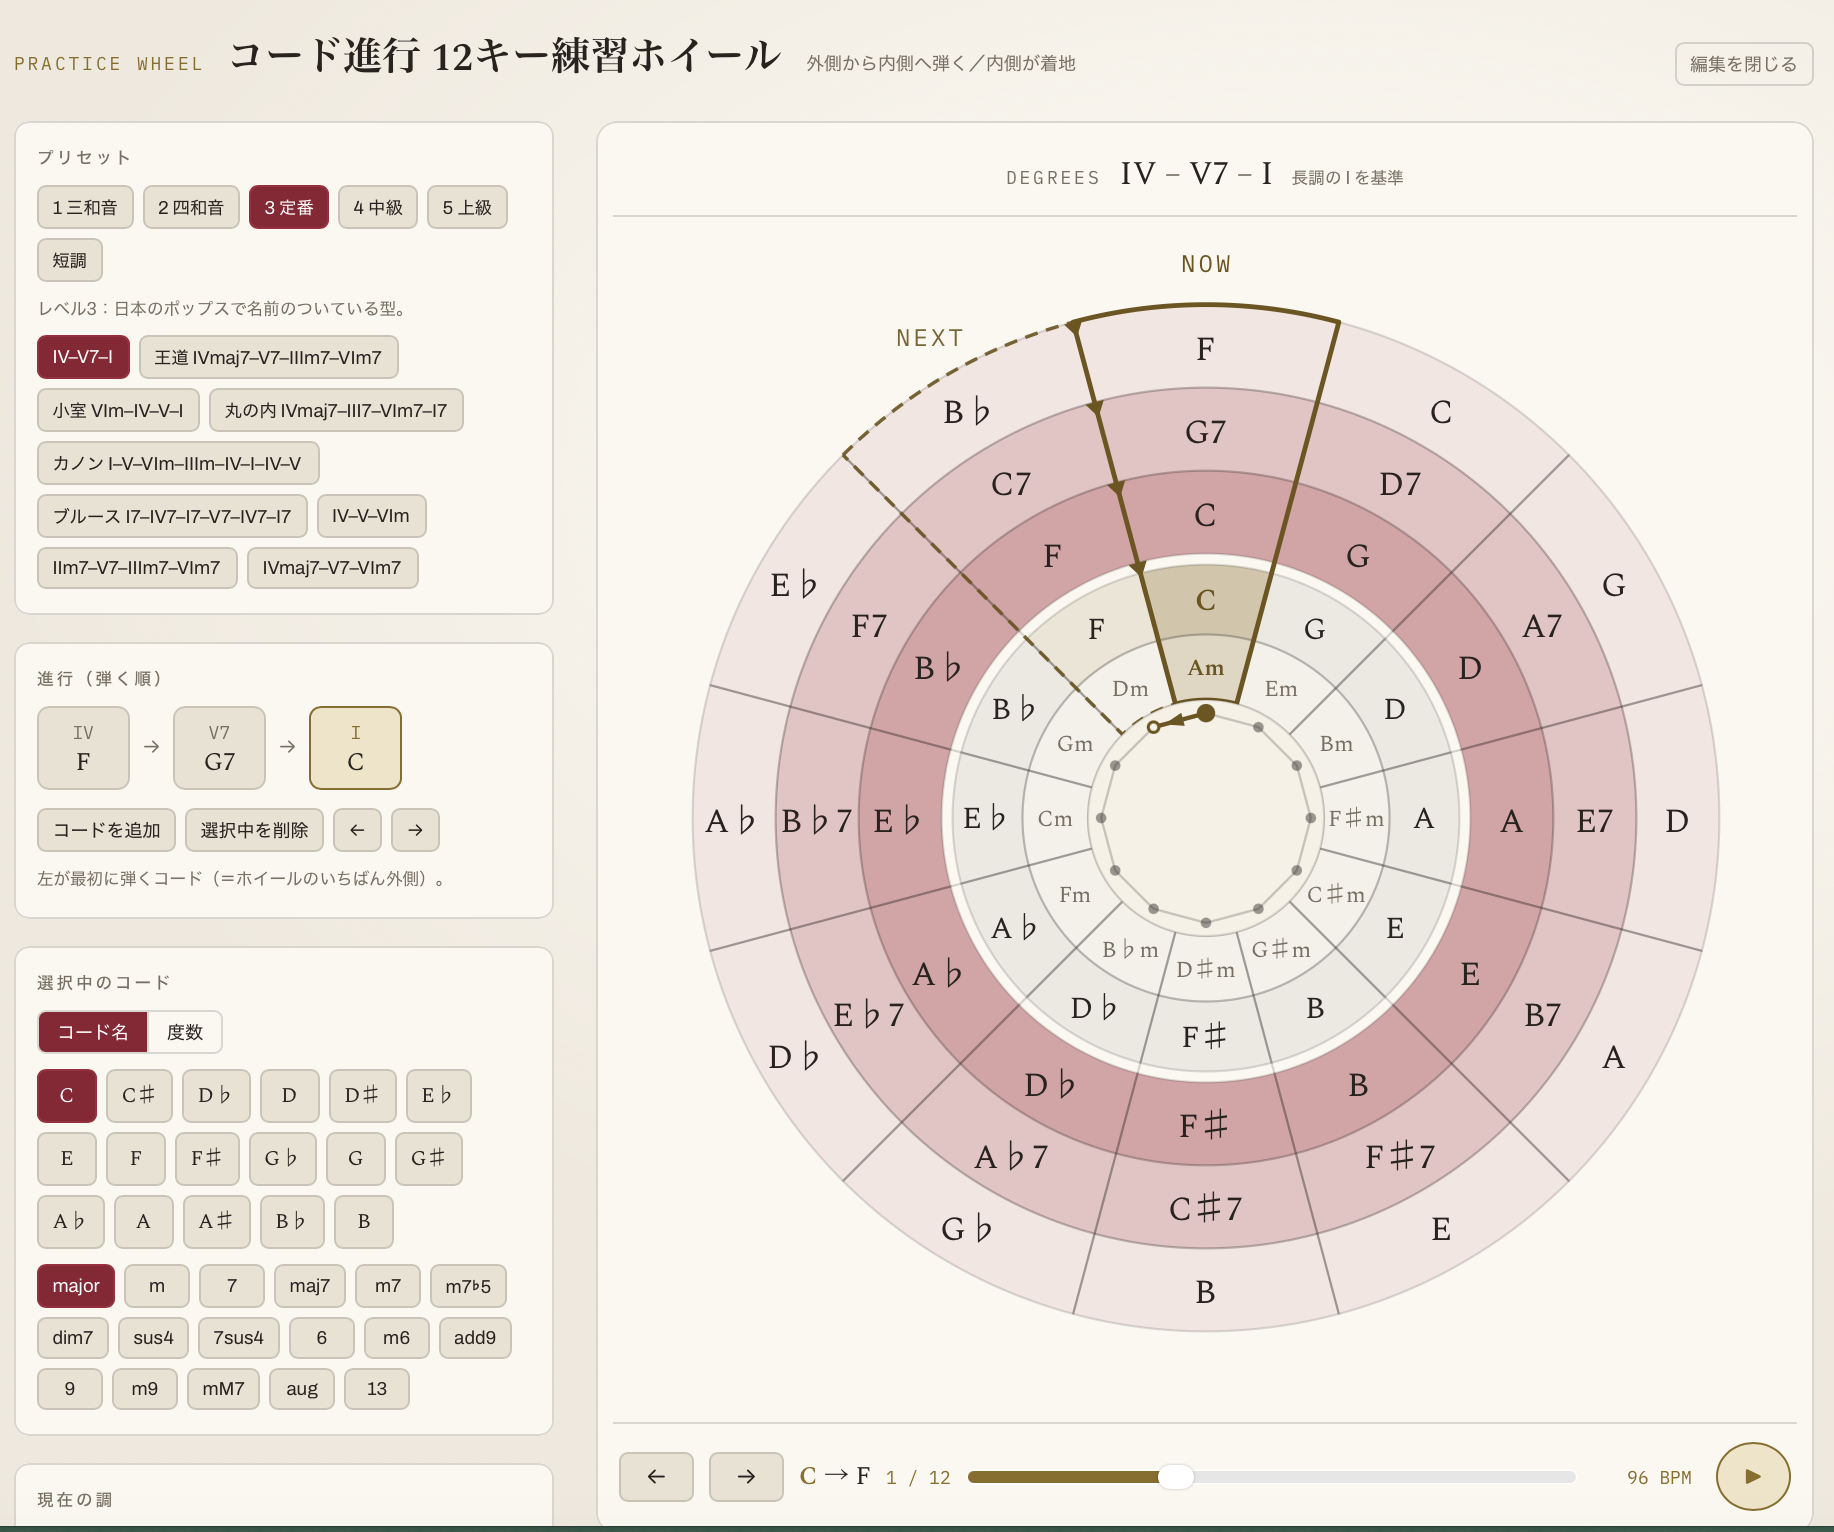
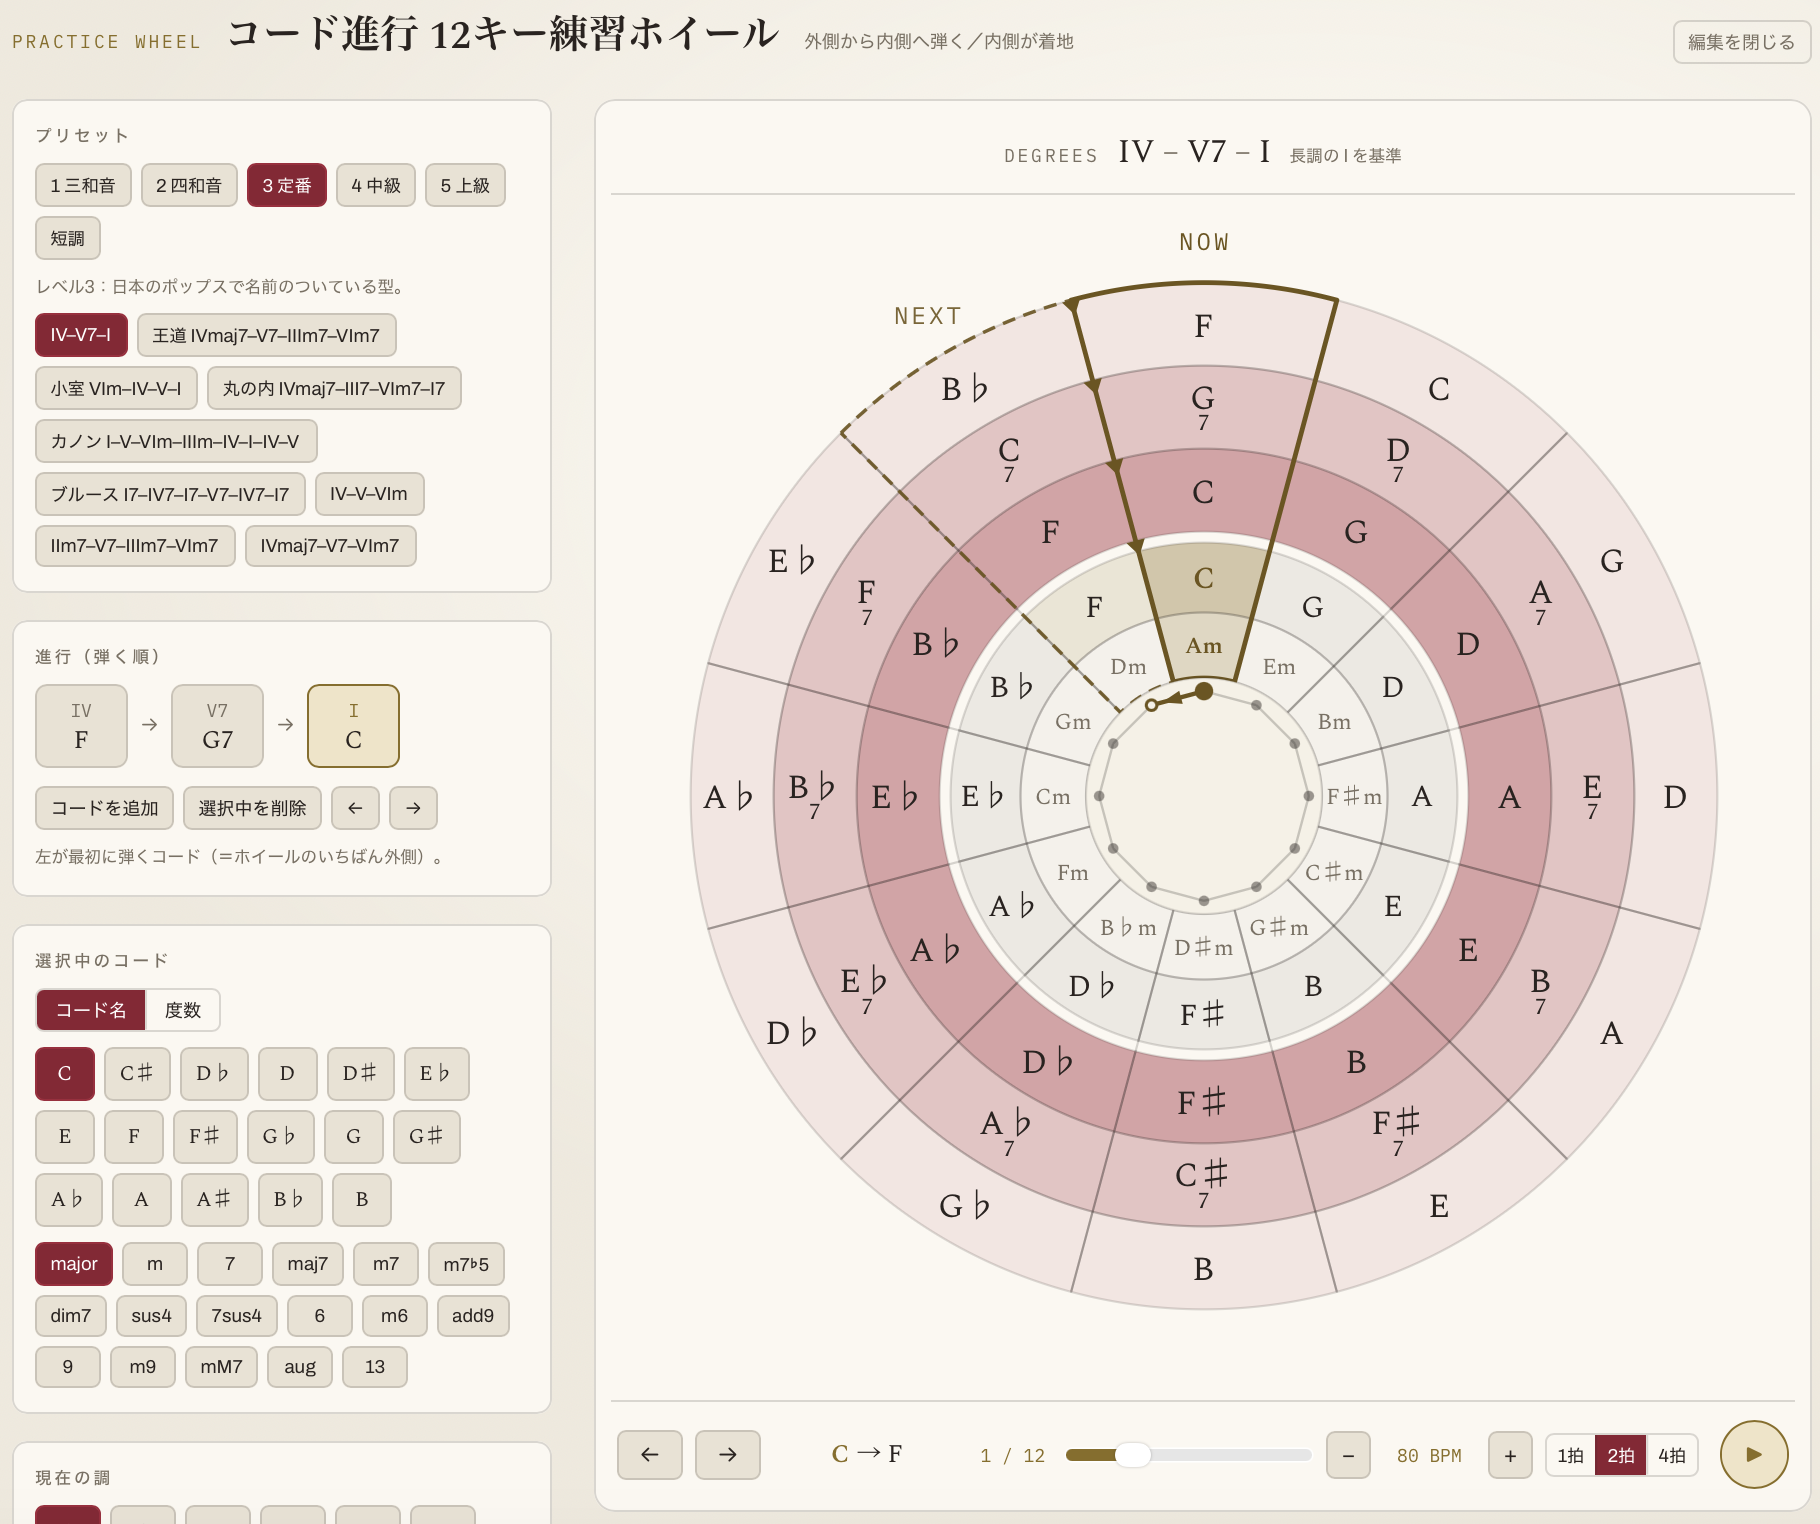
五度圏近くにボタンを追加と調整

diff --git a/index.html b/index.html
@@ -88,14 +88,21 @@ input[type=range]:focus-visible{outline:2px solid var(--brass);outline-offset:4p
 .wheelbox{background:var(--lacquer-2);border:1px solid var(--line);border-radius:14px;padding:10px}
 .wheelhead{display:flex;align-items:center;gap:12px;padding:8px 4px 10px;
   border-bottom:1px solid var(--line);margin-bottom:6px}
-.wheelfoot{display:flex;align-items:center;gap:10px;flex-wrap:wrap;
+.wheelfoot{display:flex;align-items:center;gap:8px;flex-wrap:wrap;
   padding:12px 4px 4px;border-top:1px solid var(--line);margin-top:8px}
-.wheelfoot .keynow{font-family:var(--f-display);font-size:17px;white-space:nowrap}
+/* 中身が変わる表示にはそれぞれ固定幅を与える。ここが伸び縮みすると、余りを受け持つ
+   スライダーの長さまで動いてしまい、行全体が落ち着かない。幅は最長の文字列
+   （B♭m → E♭m／12 / 12／208 BPM）に合わせてある。 */
+.wheelfoot .keynow{font-family:var(--f-display);font-size:17px;white-space:nowrap;
+  flex:none;width:126px;text-align:center}
 .wheelfoot .keynow b{color:var(--brass);font-weight:600}
-.wheelfoot input[type=range]{flex:1;min-width:150px;margin:0}
-.wheelfoot > button{min-width:50px;font-size:16px;line-height:1.2}
-.wheelfoot .counter{margin-left:0}
-.wheelfoot .bpm{min-width:66px;text-align:right}
+.wheelfoot input[type=range]{flex:1 1 110px;min-width:80px;margin:0}
+.wheelfoot > button{min-width:44px;font-size:16px;line-height:1.2}
+.wheelfoot > button.step{min-width:30px;padding:6px 0;font-size:15px;flex:none}
+.wheelfoot .counter{margin-left:0;flex:none;width:52px;text-align:center}
+.wheelfoot .bpm{width:62px;text-align:center}
+.wheelfoot .seg{flex:none}
+.wheelfoot .seg button{padding:6px 7px;font-size:12.5px}
 .wheelfoot .play{margin-left:6px}
 .advtoggle{margin-left:auto}
 .play{width:46px;height:46px;flex:none;border-radius:50%;font-size:15px;line-height:1;
@@ -118,6 +125,9 @@ svg.wheel .hit{cursor:pointer;fill:transparent}
   button{padding:9px 12px;font-size:14px}
   .key-btn,.root-btn{min-width:52px}
   .wheelfoot > button{min-width:58px;padding:11px 14px;font-size:16px}
+  /* この2つは .step / .seg 側の指定のほうが強いので、ここで明示的に上書きする */
+  .wheelfoot > button.step{min-width:46px;padding:11px 0}
+  .wheelfoot .seg button{padding:10px 11px;font-size:13.5px}
   .play{width:56px;height:56px;font-size:18px;padding:0}
 }
 /* いま弾く区画は光り、次の区画は枠が点滅する。どちらも区画の内側で完結させ、
@@ -246,7 +256,12 @@ svg.wheel .nextcell{animation:nextblink .45s ease-out forwards}
           <span class="keynow"><b id="nowKey">C</b> → <span id="nextKey">F</span></span>
           <span class="counter" id="counter">1 / 12</span>
           <input type="range" id="bpm" min="40" max="208" step="1" value="96" aria-label="テンポ">
+          <button id="bpmDown" class="step" aria-label="テンポを1下げる">−</button>
           <span class="counter bpm" id="bpmVal2">96 BPM</span>
+          <button id="bpmUp" class="step" aria-label="テンポを1上げる">+</button>
+          <span class="seg" id="bpcSeg2" aria-label="1コードあたりの拍数">
+            <button data-b="1">1拍</button><button data-b="2">2拍</button><button data-b="4">4拍</button>
+          </span>
           <button id="playBtn2" class="play" aria-label="再生／停止">▶</button>
         </div>
       </div>
@@ -611,9 +626,11 @@ function drawPanel(){
   pb2.textContent=state.playing?(cd?String(cd):'■'):'▶';
   pb2.classList.toggle('counting',!!cd);
   document.getElementById('bpmVal2').textContent=`${state.bpm} BPM`;
+  document.getElementById('bpm').value=state.bpm;   /* ＋− で変えたときにつまみも動かす */
   document.getElementById('layout').classList.toggle('adv',state.advanced);
   document.getElementById('advBtn').textContent=state.advanced?'編集を閉じる':'編集を開く';
-  document.querySelectorAll('#bpcSeg button').forEach(b=>{
+  /* 拍数の切り替えは編集パネルとホイール下の2箇所にある。どちらも同じ状態を指す。 */
+  document.querySelectorAll('#bpcSeg button,#bpcSeg2 button').forEach(b=>{
     b.classList.toggle('on',+b.dataset.b===state.beatsPerChord);
     b.onclick=()=>{state.beatsPerChord=+b.dataset.b;render();};});
   document.querySelectorAll('#ciSeg button').forEach(b=>{
@@ -805,8 +822,11 @@ const toggledPlay=()=>state.playing?stop():play();
 const step=d=>{state.step=mod(state.step+d,state.seq.length);render();};
 document.getElementById('playBtn2').onclick=toggledPlay;
 document.getElementById('advBtn').onclick=()=>{state.advanced=!state.advanced;render();};
-document.getElementById('bpm').oninput=e=>{state.bpm=+e.target.value;drawPanel();};
+const setBpm=v=>{state.bpm=Math.min(208,Math.max(40,v));drawPanel();};
+document.getElementById('bpm').oninput=e=>setBpm(+e.target.value);
 document.getElementById('bpm').onkeydown=e=>{if(e.code==='Space')e.stopPropagation();};
+document.getElementById('bpmDown').onclick=()=>setBpm(state.bpm-1);
+document.getElementById('bpmUp').onclick=()=>setBpm(state.bpm+1);
 document.addEventListener('keydown',e=>{
   if(e.code==='Space'&&e.target===document.body){e.preventDefault();toggledPlay();}});
 document.getElementById('nextBtn').onclick=()=>step(1);
